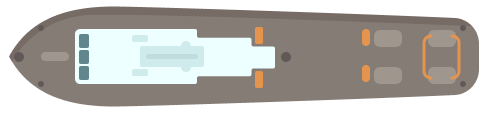
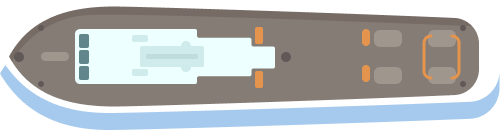
image updates

diff --git a/personal-website/src/app/projects/project/project.component.ts b/personal-website/src/app/projects/project/project.component.ts
@@ -137,13 +137,17 @@ export class ProjectComponent implements AfterViewInit, OnDestroy {
 
     updateBackground() {
         const scroll = window.scrollY;
-        const startHeight = this.contentHeight * 4.5;
+        const startHeight = this.contentHeight * 5.5;
         const maxScroll = document.body.scrollHeight - window.innerHeight - this.contentHeight;
 
         const scrollFraction = (scroll - startHeight) / (maxScroll - startHeight);
 
-        const startColour = [8, 164, 236];
+        const startColour = [0, 88, 197];
         const endColour = [19, 40, 89];
+
+        if (scroll >= this.contentHeight) {
+            document.body.style.backgroundColor = `rgb(${startColour.join(",")})`;
+        }
 
         if (scroll >= startHeight && scroll <= maxScroll) {
             const interpolated = startColour.map((start, i) =>

diff --git a/personal-website/src/app/projects/project/project.component.html b/personal-website/src/app/projects/project/project.component.html
@@ -32,7 +32,7 @@
                     <img
                         id="project-start-boat"
                         class="absolute top-0 left-0 ml-[10vw] mt-[20vh] w-[60vh] h-[50vh]"
-                        src="/temp_zoomed_boat.png"
+                        src="/boat_closeup.png"
                         alt="Boat"
                     />
 
@@ -92,7 +92,7 @@
     </div>
 
     <div id="waves" class="waves-container absolute top-0 z-20">
-        <img id="waves-image" class="waves w-[100vw] object-cover" src="/temp_waves.jpg" alt="Waves" />
+        <img id="waves-image" class="waves w-[100vw] object-cover" src="/waves.png" alt="Waves" />
     </div>
 
     <div class="project-complete-container flex items-center">
